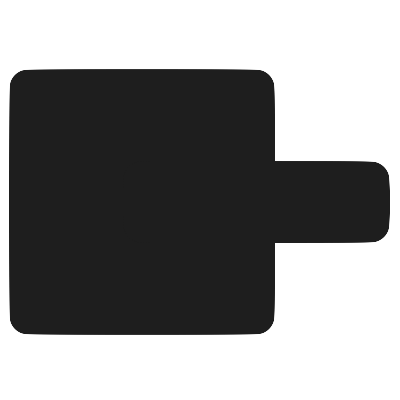
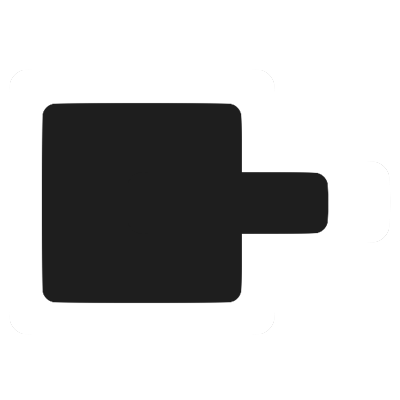
Shell + Terminal updates
- do not print beep sound
- keep the state for the shell so when a new session connection is made, it prints the current state instead of just saying "connected".
- store the last active shell via socket.active_shell, and pass the active shell content when new connection comes along
- allow copy & pasting

Changed region(s): [[0.0, 0.15, 0.99, 0.84]]

diff --git a/server/socket.js b/server/socket.js
@@ -4,6 +4,7 @@ class Socket {
   constructor(parent) {
     this.buffer = {}
     this.connected = {}
+    this.active_shell = {}
     this.parent = parent
     this.server = parent.server
 //    this.kernel = parent.kernel
@@ -66,8 +67,9 @@ class Socket {
                 } else if (req.stop) {
                   this.parent.kernel.api.stop({ params: req })
                 } else {
-                  this.subscribe(ws, id)
-
+                  let buf = this.buffer[id]
+                  let sh = this.active_shell[id]
+                  this.subscribe(ws, id, buf, sh)
                   if (req.mode !== "listen") {
                     // Run only if currently not running
                     if (!this.parent.kernel.api.running[id]) {
@@ -106,11 +108,16 @@ class Socket {
       headers.push('Access-Control-Allow-Headers: Origin, X-Requested-With, Content-Type, Accept');
     });
   }
-  subscribe(ws, id) {
+  subscribe(ws, id, buf, sh) {
 
     if (this.parent.kernel.api.running[id]) {
       ws.send(JSON.stringify({
-        type: "connect"
+        type: "connect",
+        data: {
+          id,
+          state: buf,
+          shell: sh
+        }
       }))
     }
 
@@ -148,6 +155,15 @@ class Socket {
       });
     }
 
+    if (!this.buffer[id]) {
+      this.buffer[id] = ""
+    }
+    if (e.data && e.data.raw) this.buffer[id] += e.data.raw
+
+    if (e.data && e.data.shell_id) {
+      this.active_shell[id] = e.data.shell_id
+    }
+
     // send to caller session
     if (e.caller) {
       let caller
@@ -175,6 +191,15 @@ class Socket {
 
           }
         });
+      }
+
+      if (!this.buffer[caller]) {
+        this.buffer[caller] = ""
+      }
+      if (e.data.raw) this.buffer[caller] += e.data.raw
+
+      if (e.data && e.data.shell_id) {
+        this.active_shell[caller] = e.data.shell_id
       }
     }
   }

diff --git a/server/index.js b/server/index.js
@@ -121,7 +121,7 @@ class Server {
     return items.map((x) => {
       let name
       let description
-      let icon
+      let icon = "/pinokio-black.png"
       let uri
       if (meta) {
         let m = meta[x.name]
@@ -130,7 +130,8 @@ class Server {
         if (m && m.icon) {
           icon = m.icon
         } else {
-          icon = null
+          icon = "/pinokio-black.png"
+          //icon = null
         }
         uri = x.name
       } else {
@@ -321,6 +322,12 @@ class Server {
       await this.renderMenu(uri, name, config, [])
     }
     let platform = os.platform()
+
+    if (config.icon) {
+      config.icon = `${rawpath}/${config.icon}?raw=true`
+    } else {
+      config.icon = "/pinokio-black.png"
+    }
 
 
     // get all memory variable stied to the current repository
@@ -1254,7 +1261,7 @@ class Server {
         //let name = (x.name.startsWith("0x") ? Buffer.from(x.name.slice(2), "hex").toString() : x.name)
         let name
         let description
-        let icon
+        let icon = "/pinokio-black.png"
         let uri
         if (meta) {
           let m = meta[x.name]
@@ -1263,7 +1270,8 @@ class Server {
           if (m && m.icon) {
             icon = m.icon
           } else {
-            icon = null
+            //icon = null
+            icon = "/pinokio-black.png"
           }
           uri = x.name
         } else {
@@ -2145,7 +2153,6 @@ class Server {
         console.log("[DONE] Updating to the new version")
       }
     }
-
     // initialize kernel
     await this.kernel.init({ port: this.port})
 
@@ -2642,6 +2649,8 @@ class Server {
       }
       if (config.icon) {
         config.icon = `/${env_path}/${config.icon}?raw=true`
+      } else {
+        config.icon = "/pinokio-black.png"
       }
 
       let name
@@ -2702,6 +2711,8 @@ class Server {
         config.pre.forEach((item) => {
           if (item.icon) {
             item.icon = `/api/${req.params.name}/${item.icon}?raw=true`
+          } else {
+            item.icon = "/pinokio-black.png"
           }
           if (!item.href.startsWith("http")) {
             item.href = path.resolve(this.kernel.homedir, "api", req.params.name, item.href)

diff --git a/kernel/shell.js b/kernel/shell.js
@@ -291,7 +291,6 @@ class Shell {
   }
   emit(message) {
     if (this.ptyProcess) {
-      console.log("write", { message, input: this.input })
       if (this.input) {
         this.ptyProcess.write(message)
       }
@@ -1018,6 +1017,11 @@ ${cleaned}
 
   }
   stream(msg, callback) {
+    if (msg === "\u0007") {
+      // Ignore bell sound escape character because it slows down everything and makes redundant sound
+      callback()
+      return
+    }
     this.vt.write(msg, () => {
       let buf = this.vts.serialize()
       let cleaned = this.stripAnsi(buf)
@@ -1025,8 +1029,10 @@ ${cleaned}
         id: this.id,
         raw: msg,
         cleaned,
-        state: cleaned
+        state: cleaned,
+        shell_id: this.id
       }
+      this.state = cleaned
       if (this.cb) this.cb(response)
 
       // Decide whether to kill or continue